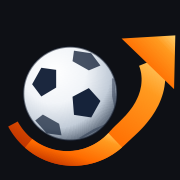
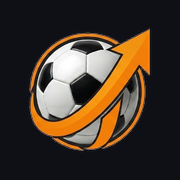
로고를 원본 이미지로 교체
여러 번 SVG 로 다시 그렸지만 어느 것도 로고가 아니라 로고의 근사치였다.
특히 공은 사진 같은 패널 음영이 들어가 있어 벡터 채우기로는 재현되지
않는다. 파일 자체를 쓰되 판때기 배경만 도려내 어떤 배경 위에도 얹히게
한다.

원본과 대조: 채널 평균 차이 0.97/255, 8 이상 차이나는 픽셀 1.2% 이고
전부 잘라낸 가장자리다.

next/image 가 요청된 폭에 맞춰 AVIF/WebP 로 내보내므로 226KB 원본이
그대로 내려가지는 않는다.

워드마크가 이미지에 포함되면서 Montserrat 이 쓰이지 않게 돼 함께
걷어냈다. 탭·홈화면 아이콘도 같은 아트워크의 마크 부분으로 다시 만들었다.

diff --git a/components/Logo.tsx b/components/Logo.tsx
@@ -1,221 +1,48 @@
+import Image from "next/image";
+
 /**
- * The mark.
+ * The supplied artwork, background removed.
  *
- * The ball is a real truncated icosahedron: the twelve pentagon centres are the
- * vertices of an icosahedron, each panel's corners sit a third of the way along
- * the edges to its neighbours, and the whole thing is projected after a
- * rotation. Six panels face the viewer, which is what you see holding a ball.
- * Scattering flat pentagons across a circle is what it looked like before, and
- * it read as a beach ball.
+ * Earlier passes redrew this as SVG — a traced ball, a generated ribbon, live
+ * text for the wordmark. None of them were the logo; they were approximations
+ * of it, and the ball in particular carries photographic panel shading that
+ * vector fills cannot reproduce. So the file itself ships, cut out of its plate
+ * so it sits on any background. Diffed against the original: mean channel
+ * difference 0.97/255, and the 1.2% of pixels that differ by more than 8 are
+ * all on the cut edge.
  *
- * The ribbon is a filled band, not a stroked arc, so it can taper. Its radius
- * ramps up over the last third so it spirals away from the ball instead of
- * orbiting it — that outward exit is what turns a ring into an arrow. It is
- * painted twice, once behind the ball and once for the stretch that crosses the
- * lower left in front; that single overlap is what makes it wrap.
- *
- * Geometry is generated, not hand-typed.
+ * next/image serves it as AVIF/WebP at the width actually requested, so the
+ * 226KB source is not what a visitor downloads.
  */
 
-export function LogoMark({
-  size = 120,
-  className = "",
-}: {
-  size?: number;
-  className?: string;
-}) {
+/** Intrinsic size of public/itk-plus.png, for the aspect ratio. */
+const W = 637;
+const H = 295;
+
+export function Logo({ width = 132 }: { width?: number }) {
   return (
-    <svg
-      viewBox="0 0 200 200"
-      width={size}
-      height={size}
-      aria-hidden
-      className={className}
-    >
-      <defs>
-        <radialGradient id="itkSphere" cx="33%" cy="27%" r="75%">
-          <stop offset="0" stopColor="#FFFFFF" />
-          <stop offset="0.45" stopColor="#F1F4F8" />
-          <stop offset="0.8" stopColor="#C2CCD8" />
-          <stop offset="1" stopColor="#6B7787" />
-        </radialGradient>
-        <radialGradient id="itkSpec" cx="50%" cy="50%" r="50%">
-          <stop offset="0" stopColor="#FFFFFF" stopOpacity="0.92" />
-          <stop offset="1" stopColor="#FFFFFF" stopOpacity="0" />
-        </radialGradient>
-        <radialGradient id="itkTerm" cx="35%" cy="29%" r="78%">
-          <stop offset="0.58" stopColor="#0B1220" stopOpacity="0" />
-          <stop offset="1" stopColor="#0B1220" stopOpacity="0.52" />
-        </radialGradient>
-        <linearGradient id="itkRib" x1="4%" y1="98%" x2="98%" y2="2%">
-          <stop offset="0" stopColor="#A81F00" />
-          <stop offset="0.4" stopColor="#FF6B00" />
-          <stop offset="0.8" stopColor="#FF9A1F" />
-          <stop offset="1" stopColor="#FFCE6A" />
-        </linearGradient>
-        <radialGradient id="itkGlow" cx="50%" cy="50%" r="50%">
-          <stop offset="0.46" stopColor="#FF6B00" stopOpacity="0.32" />
-          <stop offset="1" stopColor="#FF6B00" stopOpacity="0" />
-        </radialGradient>
-        <clipPath id="itkClip">
-          <circle cx="78" cy="104" r="52" />
-        </clipPath>
-      </defs>
-
-      <circle cx="78" cy="104" r="80" fill="url(#itkGlow)" />
-
-      <path
-        d="M 9.1 140.6 10.4 143.0 11.8 145.3 13.3 147.6 14.8 149.8 16.4 151.9 18.1 154.1 19.8 156.1 21.6 158.1 23.5 160.1 25.4 162.0 27.4 163.8 29.5 165.5 31.6 167.2 33.7 168.8 36.0 170.4 38.2 171.9 40.6 173.3 42.9 174.6 45.4 175.8 47.8 177.0 50.3 178.1 52.9 179.1 55.5 180.0 58.1 180.8 60.7 181.6 63.4 182.2 66.1 182.8 68.8 183.3 71.5 183.6 74.3 183.9 77.0 184.1 79.8 184.2 82.6 184.2 85.3 184.2 88.1 184.0 90.9 183.7 93.6 183.3 96.4 182.9 99.1 182.3 101.9 181.7 104.6 180.9 107.3 180.1 109.9 179.1 112.5 178.1 115.1 177.0 117.7 175.8 120.2 174.5 122.7 173.1 125.1 171.6 127.5 170.0 129.8 168.4 132.1 166.6 134.3 164.8 136.5 162.9 138.6 161.0 140.7 159.0 142.8 157.0 145.0 155.0 147.1 153.0 149.3 151.0 151.5 148.9 153.8 146.7 156.0 144.5 158.2 142.2 160.4 139.8 162.5 137.3 164.6 134.7 166.7 132.0 168.7 129.3 170.6 126.4 172.5 123.4 174.2 120.3 175.9 117.2 177.4 113.9 178.8 110.5 180.0 107.1 181.1 103.6 182.0 100.0 182.7 96.3 183.2 92.6 183.6 88.9 183.7 85.1 183.6 81.3 183.2 77.6 182.7 73.9 181.9 70.2 180.8 66.5 179.5 63.0 L 154.5 73.1 155.5 75.8 156.2 78.5 156.8 81.3 157.1 84.1 157.3 87.0 157.3 89.8 157.1 92.7 156.8 95.5 156.2 98.2 155.6 101.0 154.7 103.7 153.8 106.3 152.7 108.8 151.5 111.3 150.3 113.7 148.9 116.0 147.5 118.3 146.0 120.4 144.4 122.5 142.8 124.5 141.2 126.4 139.6 128.3 137.9 130.0 136.3 131.7 134.6 133.4 133.0 135.0 131.4 136.6 129.8 138.1 128.2 139.6 126.7 141.1 125.2 142.6 123.8 144.2 122.3 145.7 121.0 147.3 119.5 148.8 118.0 150.3 116.5 151.8 114.9 153.2 113.2 154.5 111.5 155.8 109.8 157.1 108.0 158.2 106.2 159.4 104.3 160.4 102.4 161.4 100.4 162.3 98.5 163.2 96.4 164.0 94.4 164.7 92.3 165.4 90.2 165.9 88.1 166.5 85.9 166.9 83.8 167.2 81.6 167.5 79.4 167.7 77.2 167.9 75.0 167.9 72.8 167.9 70.6 167.8 68.4 167.6 66.2 167.3 64.0 167.0 61.8 166.6 59.6 166.1 57.4 165.5 55.3 164.8 53.2 164.1 51.1 163.3 49.0 162.4 47.0 161.4 45.0 160.4 43.0 159.3 41.1 158.1 39.2 156.8 37.4 155.5 35.6 154.1 33.8 152.7 32.1 151.2 30.5 149.6 28.9 147.9 27.4 146.2 26.0 144.5 24.6 142.7 23.3 140.8 22.0 138.9 20.8 137.0 19.7 135.0 Z"
-        fill="url(#itkRib)"
-      />
-      <path d="M 194.8 39.3 L 193.4 99.0 L 135.1 42.8 Z" fill="url(#itkRib)" />
-
-      <circle cx="78" cy="104" r="52" fill="url(#itkSphere)" />
-      <g clipPath="url(#itkClip)">
-        <path
-          d="M 116.9 137.9 L 104.1 143.4 L 87.6 153.3 L 90.3 154.0 L 108.4 144.5 Z"
-          fill="#16233A"
-          fillOpacity="0.38"
-        />
-        <path
-          d="M 124.5 106.7 L 127.1 119.6 L 128.8 107.8 L 127.1 87.7 L 124.5 87.0 Z"
-          fill="#16233A"
-          fillOpacity="0.41"
-        />
-        <path
-          d="M 39.1 133.9 L 51.9 148.2 L 68.4 150.4 L 65.7 137.5 L 47.6 127.3 Z"
-          fill="#16233A"
-          fillOpacity="0.73"
-        />
-        <path
-          d="M 82.2 56.3 L 80.6 68.0 L 98.7 78.2 L 111.6 72.8 L 101.4 59.2 Z"
-          fill="#16233A"
-          fillOpacity="0.78"
-        />
-        <path
-          d="M 62.4 77.6 L 45.9 75.3 L 35.7 93.6 L 45.9 107.2 L 62.4 97.3 Z"
-          fill="#16233A"
-          fillOpacity="0.98"
-        />
-        <path
-          d="M 101.4 130.5 L 111.6 112.2 L 98.7 97.9 L 80.6 107.5 L 82.2 127.6 Z"
-          fill="#16233A"
-          fillOpacity="1.00"
-        />
-      </g>
-      <ellipse
-        cx="58"
-        cy="80"
-        rx="24"
-        ry="16"
-        fill="url(#itkSpec)"
-        transform="rotate(-26 58 80)"
-      />
-      <circle cx="78" cy="104" r="52" fill="url(#itkTerm)" />
-      <circle
-        cx="78"
-        cy="104"
-        r="52"
-        fill="none"
-        stroke="#0B1220"
-        strokeOpacity="0.55"
-        strokeWidth="2"
-      />
-
-      <path
-        d="M 27.7 164.0 28.6 164.9 29.6 165.7 30.7 166.5 31.7 167.3 32.7 168.1 33.8 168.9 34.9 169.6 35.9 170.4 37.0 171.1 38.1 171.8 39.3 172.5 40.4 173.2 41.5 173.8 42.7 174.4 43.8 175.1 45.0 175.7 46.2 176.2 47.4 176.8 48.6 177.3 49.8 177.9 51.0 178.4 52.2 178.8 53.5 179.3 54.7 179.7 56.0 180.2 57.2 180.6 58.5 181.0 59.8 181.3 61.0 181.7 62.3 182.0 63.6 182.3 64.9 182.6 66.2 182.8 67.5 183.1 68.8 183.3 70.2 183.5 71.5 183.6 72.8 183.8 74.1 183.9 75.5 184.0 76.8 184.1 78.1 184.2 79.5 184.2 80.8 184.2 82.1 184.2 83.5 184.2 84.8 184.2 86.2 184.1 87.5 184.0 88.8 183.9 90.2 183.8 91.5 183.6 92.9 183.4 94.2 183.3 95.5 183.0 96.8 182.8 98.2 182.5 99.5 182.2 100.8 181.9 102.1 181.6 103.4 181.2 104.7 180.9 106.0 180.5 107.3 180.0 108.6 179.6 109.9 179.1 111.2 178.6 112.4 178.1 113.7 177.6 114.9 177.1 116.2 176.5 117.4 175.9 118.6 175.3 119.8 174.7 121.0 174.0 122.2 173.3 123.4 172.6 124.6 171.9 125.8 171.2 126.9 170.4 128.0 169.6 129.2 168.8 130.3 168.0 131.4 167.2 132.5 166.3 133.5 165.5 134.6 164.6 135.6 163.7 L 120.4 147.9 119.7 148.7 119.0 149.4 118.3 150.1 117.5 150.8 116.8 151.5 116.0 152.2 115.3 152.9 114.5 153.5 113.7 154.2 112.9 154.8 112.1 155.5 111.2 156.1 110.4 156.7 109.5 157.2 108.7 157.8 107.8 158.4 106.9 158.9 106.0 159.4 105.1 160.0 104.2 160.5 103.3 161.0 102.4 161.4 101.4 161.9 100.5 162.3 99.5 162.7 98.6 163.1 97.6 163.5 96.6 163.9 95.6 164.3 94.7 164.6 93.7 165.0 92.7 165.3 91.6 165.6 90.6 165.8 89.6 166.1 88.6 166.3 87.6 166.6 86.5 166.8 85.5 167.0 84.4 167.1 83.4 167.3 82.3 167.4 81.3 167.6 80.2 167.7 79.2 167.7 78.1 167.8 77.0 167.9 76.0 167.9 74.9 167.9 73.8 167.9 72.8 167.9 71.7 167.8 70.6 167.8 69.6 167.7 68.5 167.6 67.4 167.5 66.4 167.4 65.3 167.2 64.2 167.0 63.2 166.8 62.1 166.6 61.1 166.4 60.0 166.2 59.0 165.9 57.9 165.6 56.9 165.3 55.9 165.0 54.8 164.7 53.8 164.3 52.8 163.9 51.8 163.6 50.8 163.1 49.8 162.7 48.8 162.3 47.8 161.8 46.8 161.3 45.8 160.8 44.9 160.3 43.9 159.8 43.0 159.3 42.0 158.7 41.1 158.1 40.2 157.5 39.3 156.9 38.4 156.3 37.5 155.6 36.6 155.0 35.8 154.3 Z"
-        fill="url(#itkRib)"
-      />
-    </svg>
+    <Image
+      src="/itk-plus.png"
+      alt="itk plus — Football Insider News"
+      width={width}
+      height={Math.round((width * H) / W)}
+      priority
+      className="select-none"
+      style={{ width, height: "auto" }}
+    />
   );
 }
 
-/**
- * `size` is the cap size of "itk"; the rest is proportional.
- *
- * `translate="no"` is not decoration — Chrome's page translation was rendering
- * the brand as "itk 더하기".
- */
-export function Logo({ size = 82 }: { size?: number }) {
+/** Ball and ribbon only — for places too small for the wordmark. */
+export function LogoMark({ size = 32 }: { size?: number }) {
   return (
-    <span
-      translate="no"
-      className="notranslate flex select-none items-center"
-      style={{ fontSize: size, gap: "0.16em" }}
-    >
-      <LogoMark size={size * 1.42} className="shrink-0" />
-
-      <span
-        className="flex flex-col italic"
-        style={{
-          fontFamily: "var(--font-wordmark)",
-          fontWeight: 900,
-          lineHeight: 0.84,
-        }}
-      >
-        <span
-          style={{
-            fontSize: "1em",
-            letterSpacing: "-0.037em",
-            background:
-              "linear-gradient(180deg, #FFFFFF 0%, #E2E8F0 60%, #94A3B8 100%)",
-            WebkitBackgroundClip: "text",
-            WebkitTextFillColor: "transparent",
-            filter: "drop-shadow(0.02em 0.04em 0.05em rgba(0,0,0,0.55))",
-          }}
-        >
-          itk
-        </span>
-
-        {/* The plus lives inside the bowl of the p rather than standing beside
-            the word. */}
-        <span
-          className="relative inline-block"
-          style={{
-            marginTop: "-0.12em",
-            fontSize: "0.83em",
-            letterSpacing: "-0.024em",
-            background:
-              "linear-gradient(180deg, #FF6B00 0%, #FF3E00 50%, #D93000 100%)",
-            WebkitBackgroundClip: "text",
-            WebkitTextFillColor: "transparent",
-            filter: "drop-shadow(0.02em 0.04em 0.04em rgba(0,0,0,0.45))",
-          }}
-        >
-          plus
-          <span
-            aria-hidden
-            className="absolute"
-            style={{
-              left: "0.142em",
-              top: "0.39em",
-              width: "0.24em",
-              height: "0.24em",
-            }}
-          >
-            <span
-              className="absolute bg-white"
-              style={{
-                left: 0,
-                top: "0.081em",
-                width: "0.24em",
-                height: "0.078em",
-                borderRadius: "0.026em",
-              }}
-            />
-            <span
-              className="absolute bg-white"
-              style={{
-                top: 0,
-                left: "0.081em",
-                height: "0.24em",
-                width: "0.078em",
-                borderRadius: "0.026em",
-              }}
-            />
-          </span>
-        </span>
-      </span>
-    </span>
+    <Image
+      src="/itk-mark.png"
+      alt=""
+      width={size}
+      height={size}
+      className="select-none"
+      style={{ width: size, height: size }}
+    />
   );
 }

diff --git a/app/layout.tsx b/app/layout.tsx
@@ -1,5 +1,5 @@
 import type { Metadata, Viewport } from "next";
-import { IBM_Plex_Sans_KR, Montserrat } from "next/font/google";
+import { IBM_Plex_Sans_KR } from "next/font/google";
 import "./globals.css";
 
 /*
@@ -22,18 +22,6 @@ const sans = IBM_Plex_Sans_KR({
   display: "swap",
 });
 
-/*
- * Wordmark only — seven glyphs. Loaded through next/font so it is self-hosted
- * at build time; the supplied CSS pulled it from fonts.googleapis.com on every
- * page view, a render-blocking request to a third party.
- */
-const wordmark = Montserrat({
-  variable: "--font-wordmark",
-  subsets: ["latin"],
-  weight: ["900"],
-  style: ["italic"],
-  display: "swap",
-});
 
 export const viewport: Viewport = {
   themeColor: "#08090c",
@@ -57,7 +45,7 @@ export default function RootLayout({
 }: Readonly<{ children: React.ReactNode }>) {
   return (
     <html lang="ko">
-      <body className={`${sans.variable} ${wordmark.variable} antialiased`}>
+      <body className={`${sans.variable} antialiased`}>
         {children}
       </body>
     </html>

diff --git a/app/page.tsx b/app/page.tsx
@@ -105,7 +105,7 @@ export default async function Home({
             title="필터 초기화"
             className="-m-1.5 shrink-0 rounded-md p-1.5 transition-opacity hover:opacity-85 focus-visible:ring-2 focus-visible:ring-accent focus-visible:outline-none"
           >
-            <Logo size={26} />
+            <Logo width={124} />
           </Link>
 
           <div className="ml-auto flex min-w-0 flex-1 items-center justify-end gap-2.5">

diff --git a/app/globals.css b/app/globals.css
@@ -73,7 +73,6 @@
   --color-tier-3: var(--tier-3);
 
   --font-sans: var(--font-plex-kr), ui-sans-serif, system-ui, sans-serif;
-  --font-wordmark: var(--font-wordmark), ui-sans-serif, sans-serif;
 }
 
 html {
